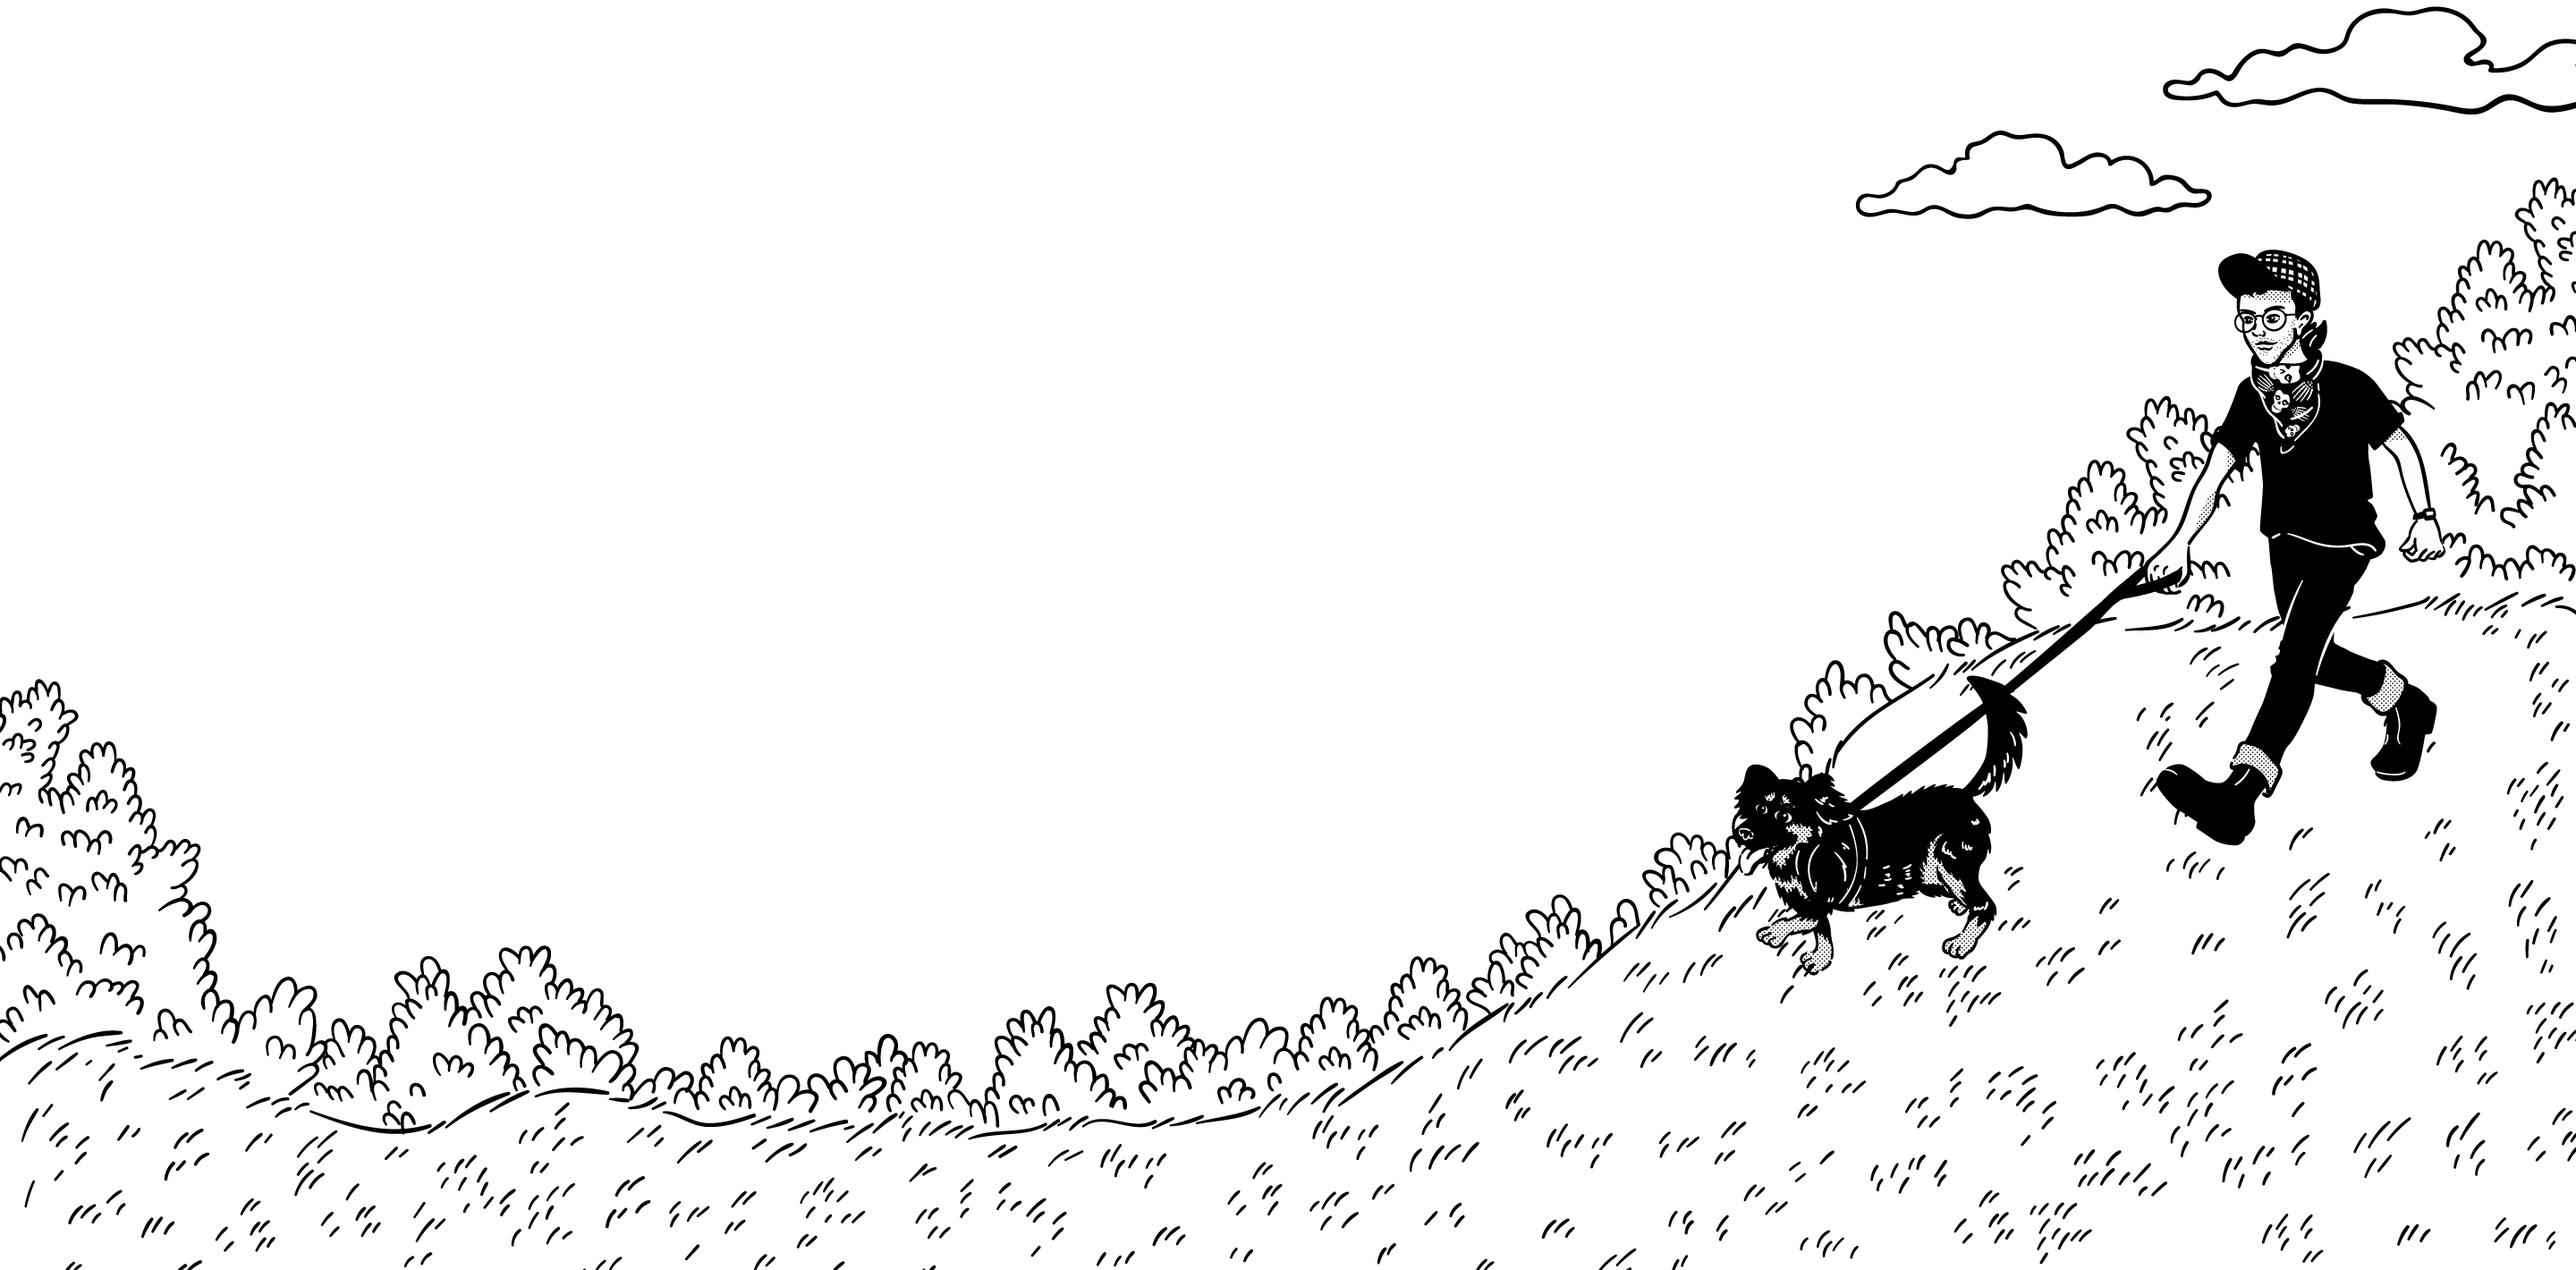
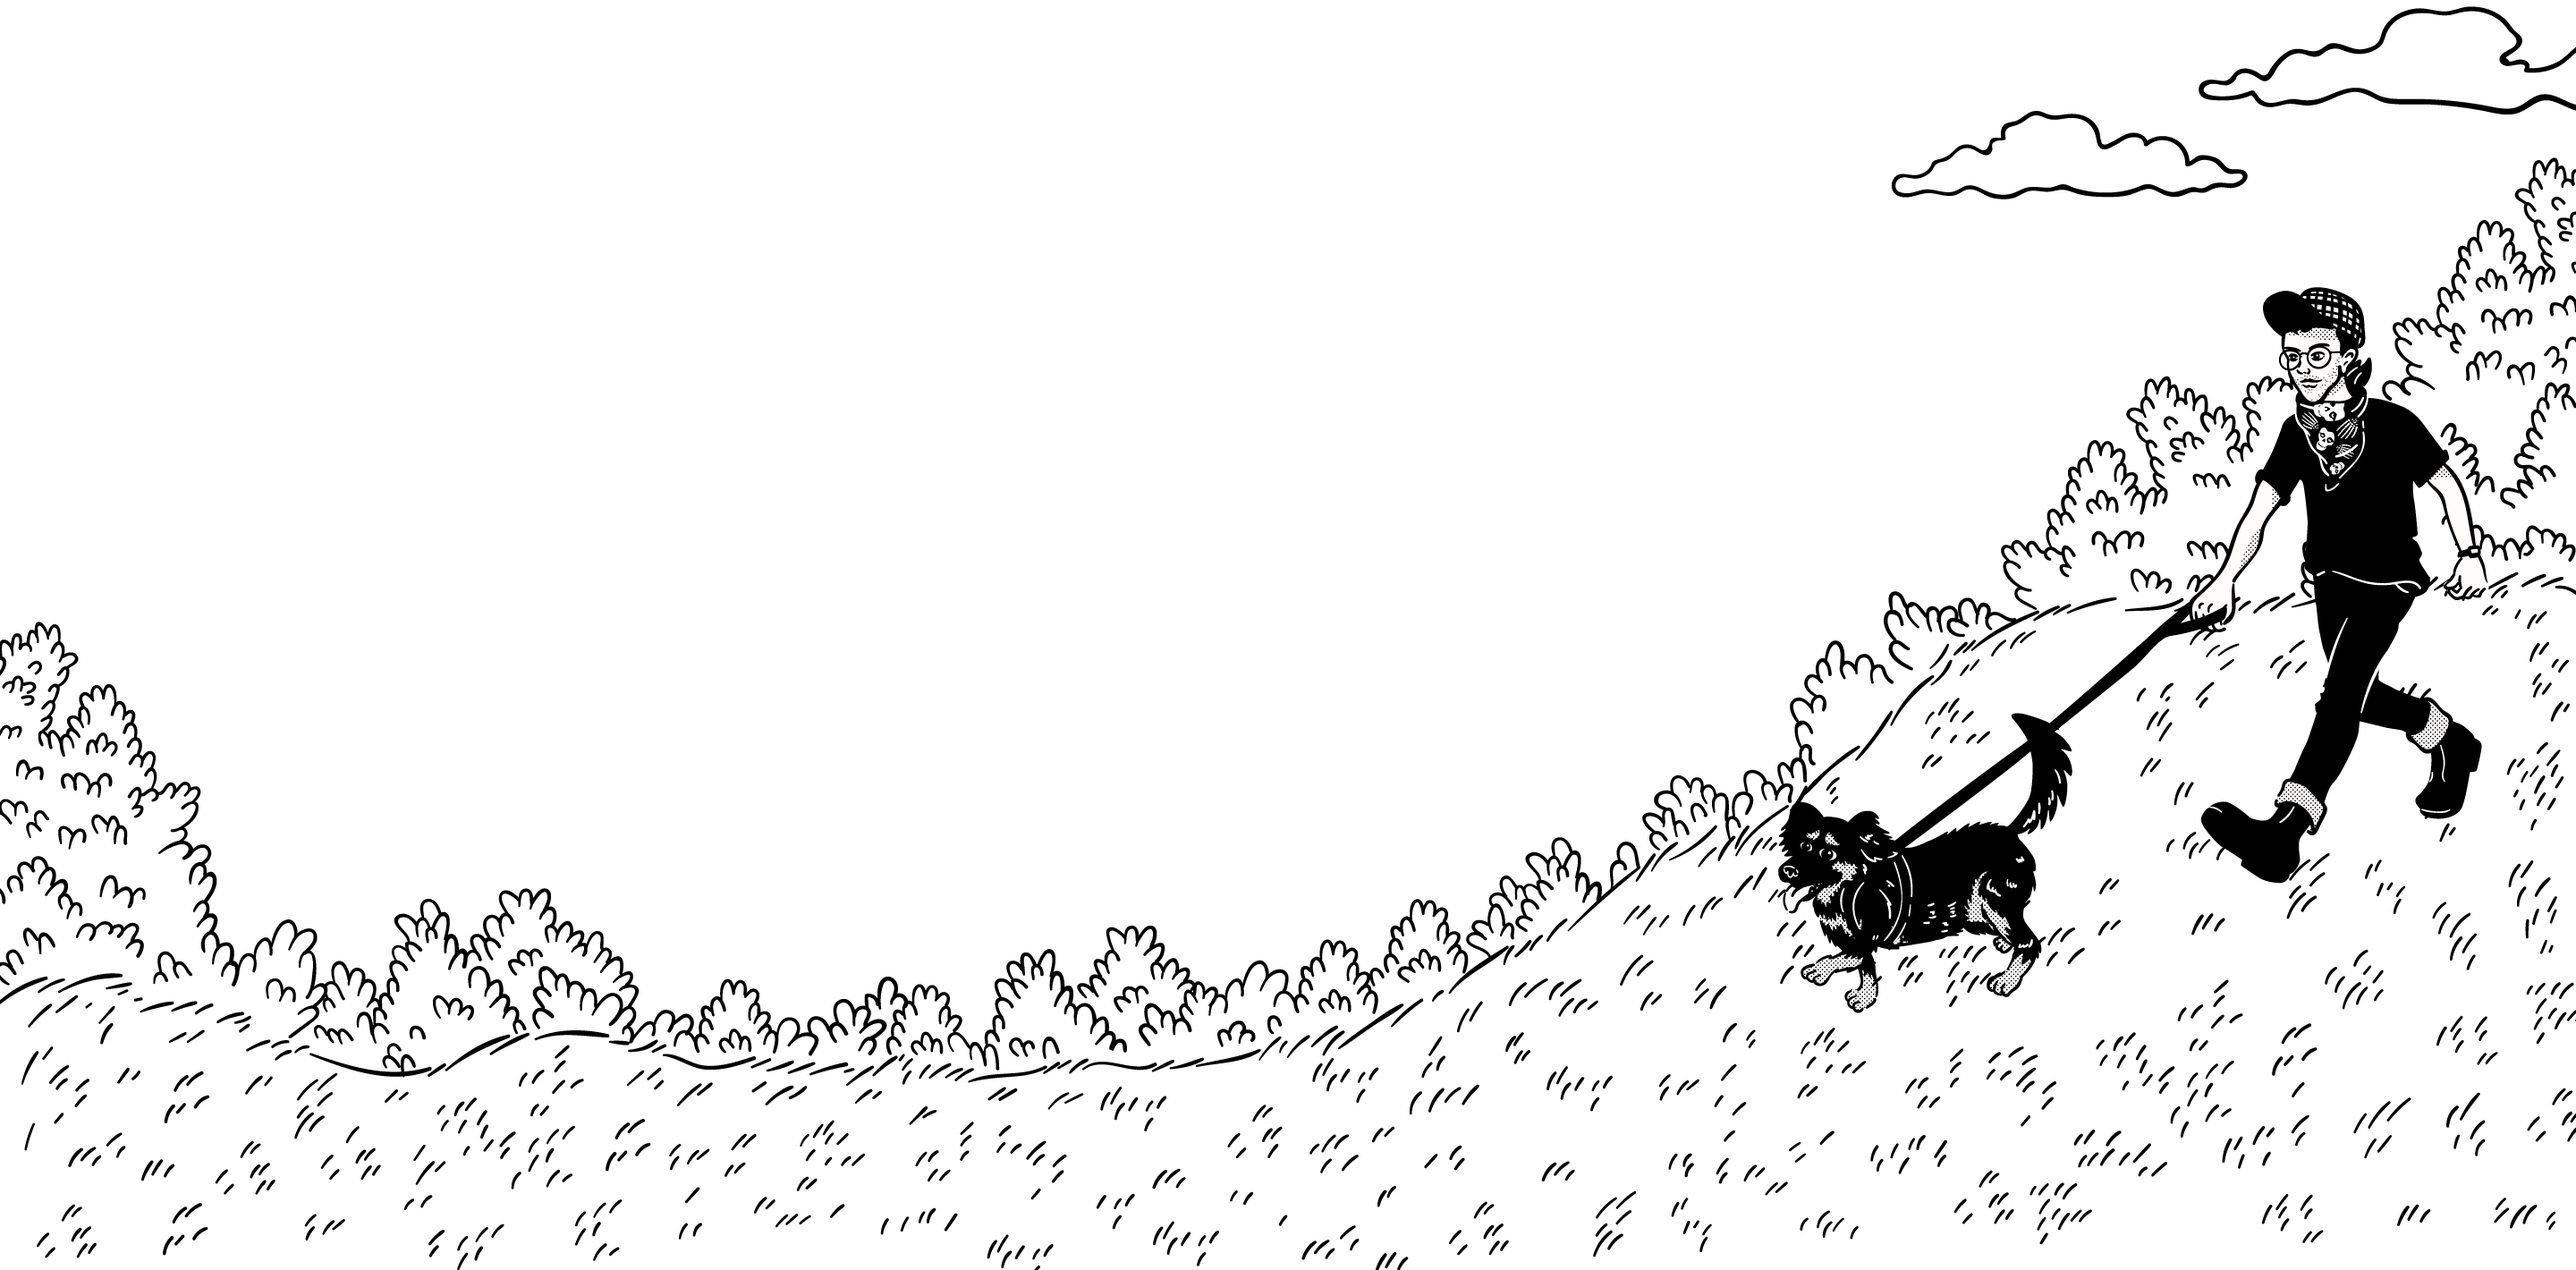
header background parallax

diff --git a/new/_includes/contact_modal.html b/new/_includes/contact_modal.html
@@ -12,7 +12,7 @@
 
         <div class="contact-page row top-xs">
           <!-- col -->
-          <div class="col-xs-12 col-sm-10 col-sm-offset-1 col-lg-6 col-lg-offset-1">
+          <div class="col-xs-12 col-sm-offset-1 col-sm-10 col-lg-offset-1 col-lg-6">
             <h3>Llena este formulario, <span class="break hidden-xs visible-sm visible-lg"></span>envía un correo a <a href="mailto:{{ site.email }}">{{ site.email }}</a> o escríbenos por <a href="{{ site.telegram_url }}" target="_blank">Telegram.</a></h3>
             <form class="contact-form" action="https://formcarry.com/s/ZeuI2QpWEGb" method="POST" accept-charset="UTF-8">
               <label for="name">Nombre*</label>
@@ -28,7 +28,7 @@
           </div>
           <!-- col end -->
           <!-- col -->
-          <div class="col-sm-12 col-lg-4 hidden-xs hidden-sm visible-lg">
+          <div class="col-sm-4 col-lg-4 hidden-xs hidden-sm visible-lg">
             <figure>
               <img src="{{ "assets/images/drawings/jean-gray.png" | relative_url }}" alt="">
             </figure>

diff --git a/new/assets/scss/media-queries.scss b/new/assets/scss/media-queries.scss
@@ -39,7 +39,7 @@ $bold: 700;
 $bold-italic: 700i;
 
 $small: 0.79rem;
-$small-line-height: 1.266rem;
+$small-line-height: 1.424rem;
 $mid: 1.125rem;
 $mid-line-height: 1.802rem;
 
@@ -379,8 +379,9 @@ $eight-spaces: 8rem;
     // max-width: 1280px;
   }
   .header-home{
-    padding: $six-spaces 0 12rem 0;
+    padding: $six-spaces 0 13rem 0;
     background-image: url(../images/backgrounds/header-home-background.png);
+    background-position: top right;
     background-size: cover;
   }
   // projects
@@ -500,6 +501,8 @@ $eight-spaces: 8rem;
   // team
   .team{
     background-image: url(../images/backgrounds/team-lg.png);
+    background-position: top center;
+    background-size: cover;
   }
   // footer
   footer{
@@ -517,4 +520,13 @@ $eight-spaces: 8rem;
 // lg - from 1200
 @media only screen and (min-width: 75em) {
 
+}
+
+// Special
+@media only screen and (min-width: 1023px) and (max-width: 1199px){
+  .contact-page{
+    & figure{
+      display: none;
+    }
+  }
 }

diff --git a/new/_layouts/post.html b/new/_layouts/post.html
@@ -14,7 +14,7 @@ layout: basic_structure
       </div>
       <!-- col end -->
       <!-- col -->
-      <div class="col-xs-12 col-sm-12 col-lg-10 col-lg-offset-1" uk-scrollspy="cls: uk-animation-fade; delay: 100">
+      <div class="col-xs-12 col-sm-offset-1 col-sm-10 col-lg-8 col-lg-offset-2" uk-scrollspy="cls: uk-animation-fade; delay: 100">
         <div class="post-info hidden-sm hidden-lg">
           <p class="author-date small">{{ page.author }}</p>
           <p class="author-date small">{% assign m = page.date | date: "%-m" %} {% case m %} {% when '1' %}Enero {% when '2' %}Febrero {% when '3' %}Marzo {% when '4' %}Abril {% when '5' %}Mayo {% when '6' %}Junio {% when '7' %}Julio {% when '8' %}Agosto {% when '9' %}Septiembre {% when '10' %}Octubre {% when '11' %}Noviembre {% when '12' %}Diciembre {% endcase %} {{ page.date | date: "%d" }} / {{ page.date | date: "%Y" }}</p>

diff --git a/new/assets/css/media-queries.css b/new/assets/css/media-queries.css
@@ -275,8 +275,9 @@
   }
 
   .header-home {
-    padding: 6rem 0 12rem 0;
+    padding: 6rem 0 13rem 0;
     background-image: url(../images/backgrounds/header-home-background.png);
+    background-position: top right;
     background-size: cover;
   }
 
@@ -389,6 +390,8 @@
 
   .team {
     background-image: url(../images/backgrounds/team-lg.png);
+    background-position: top center;
+    background-size: cover;
   }
 
   footer .footer-nav .link-base {
@@ -396,6 +399,11 @@
     line-height: 1.424rem !important;
     letter-spacing: 0.23rem !important;
     margin-bottom: 1rem !important;
+  }
+}
+@media only screen and (min-width: 1023px) and (max-width: 1199px) {
+  .contact-page figure {
+    display: none;
   }
 }
 

diff --git a/new/_layouts/basic_structure_no_nav_no_footer.html b/new/_layouts/basic_structure_no_nav_no_footer.html
@@ -22,6 +22,10 @@
     <!-- Media queries -->
     <link rel="stylesheet" href="{{ "/assets/css/media-queries.css" | relative_url }}">
     <!-- Favico -->
+    <link rel="apple-touch-icon" sizes="180x180" href="{{ assets/apple-touch-icon.png | relative_url }}">
+    <link rel="icon" type="image/png" sizes="16x16" href="{{ assets/favicon-16x16.png | relative_url }}">
+    <link rel="icon" type="image/png" sizes="32x32" href="{{ assets/favicon-32x32.png | relative_url }}">
+    <link rel="icon" type="image/png" sizes="16x16" href="{{ assets/favicon-16x16.png | relative_url }}">
     <link rel="shortcut icon" href="{{ "assets/favicon.ico" | relative_url }}" type="image/x-icon">
   </head>
   <body>

diff --git a/new/_layouts/home.html b/new/_layouts/home.html
@@ -1,7 +1,7 @@
 ---
 layout: basic_structure
 ---
-<header class="header-home" uk-parallax="bgy: -96">
+<header class="header-home" uk-parallax="bgy: -90">
   <!-- wrapper -->
   <div class="wrapper container-fluid giant-wrapper">
     <!-- row -->
@@ -278,7 +278,7 @@ layout: basic_structure
           <img src="{{ service.image | relative_url  }}" alt="{{ service.title }}">
         </figure>
         <h4>{{ service.title }}</h4>
-        <p>{{ service.description }}</p>
+        <p>{{ service.content }}</p>
         <a href="#"></a>
       </li>
       <!-- col end -->

diff --git a/new/_layouts/project.html b/new/_layouts/project.html
@@ -17,7 +17,7 @@ layout: basic_structure
       </div>
       <!-- col end -->
       <!-- col -->
-      <div class="col-xs-12 col-sm-offset-1 col-sm-10" uk-scrollspy="cls: uk-animation-fade; delay: 100">
+      <div class="col-xs-12 col-sm-offset-1 col-sm-10 col-lg-offset-2 col-lg-8" uk-scrollspy="cls: uk-animation-fade; delay: 100">
         <p class="author-date p-small">{{ page.categories | join: ' / ' }}</p>
         <h2>{{ page.title }}</h2>
         <!-- content -->

diff --git a/new/_services/2021-06-12-identidad-visual.md b/new/_services/2021-06-12-identidad-visual.md
@@ -1,5 +1,5 @@
 ---
 image: assets/images/services/visual-identity.png
 title: Identidad visual
-description: El estilo visual que determina como una marca se identifica visualmente y determina su personalidad. Se define inicialmente desde el logo y se expande en la tipografía, colores y demás elementos gráficos.  Para desarrollar un proyecto de identidad visual, determinamos cuál debería ser el lenguaje visual que conecte con una audiencia determinada, y nos encargamos de crear las bases para mantener una marca coherente en todas sus comunicaciones.
 ---
+El estilo visual que define como una marca se identifica y transmite su personalidad. Se establece inicialmente desde el logo para expandirse en la tipografía, colores y demás elementos gráficos. Durante el proceso de desarrollo de un proyecto de identidad visual, determinamos cuál debería ser el lenguaje que mejor conecte con una audiencia determinada, y nos encargamos de crear las bases para mantener una marca coherente en todas sus comunicaciones.

diff --git a/new/_services/2021-06-12-ilustracion.md b/new/_services/2021-06-12-ilustracion.md
@@ -1,5 +1,5 @@
 ---
 image: assets/images/services/illustration.png
 title: Ilustración
-description: Dibujos y collages que acompañan artículos y piezas gráficas. Las imágenes llaman la atención visualmente, le aportan sentido a los textos y hacen que la comunicación sea más cercana. Dibujamos letras, iconos y situaciones siguiendo una línea gráfica alineada con la personalidad de la marca y las características del proyecto.
 ---
+Dibujos y collages que acompañan artículos y piezas gráficas. Las imágenes llaman la atención visualmente, le aportan sentido a los textos, y hacen que la comunicación sea más cercana. Dibujamos letras, iconos y situaciones; siguiendo una línea gráfica alineada con la personalidad de la marca y las características del proyecto.

diff --git a/new/_team_members/2021-06-12-alejandro-narvaez-isaza.md b/new/_team_members/2021-06-12-alejandro-narvaez-isaza.md
@@ -2,7 +2,7 @@
 image: assets/images/team-members/alejandro-narvaez-isaza.png
 name: Alejandro Narváez Isaza
 role: Diseñador gráfico / Desarrollador Front-end
-description: Soy un diseñador gráfico de la Universidad Nacional de Colombia con trece años de experiencia multidisciplinaria como director de arte, diseñador UI/UX y diseñador de sistemas de identidad de marca.
+description: Soy un diseñador gráfico de la Universidad Nacional de Colombia con catorce años de experiencia multidisciplinaria como director de arte, diseñador UI/UX y diseñador de sistemas de identidad de marca.
 github_url: https://github.com/chicoesqueleto
 behance_url: https://www.behance.net/alejandronarvaez
 ---

diff --git a/new/_services/2021-06-12-web.md b/new/_services/2021-06-12-web.md
@@ -1,5 +1,5 @@
 ---
 image: assets/images/services/web.png
 title: Sitios web / diseño y desarrollo
-description: Diseñamos y desarrollamos sitios web personalizados con administrador de contenido, hosting gratuito y funcionalidades similares a las de un blog usando Github Pages, Jekyll y Forestry. Creamos formularios para newsletter y campañas de email marketing usando Buttondown, y formularios de contacto con Smartforms.
 ---
+Sitios web personalizados que generamos desde Jekyll, lo que nos permite alojarlos gratuitamente en Github pages y aprovechar las ventajas de gestionar un proyecto de desarrollo web desde un repositorio de Github. Para administrar el contenido usamos el CMS Forestry.
